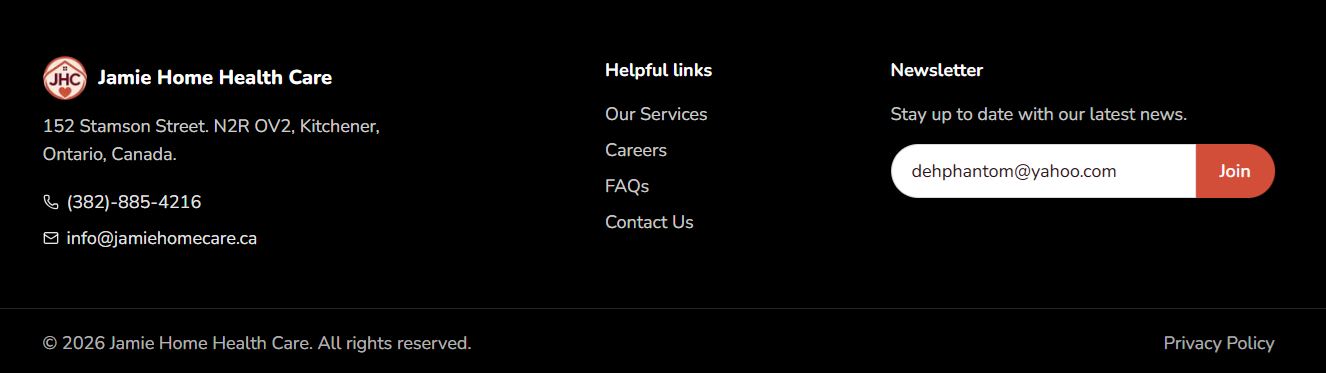
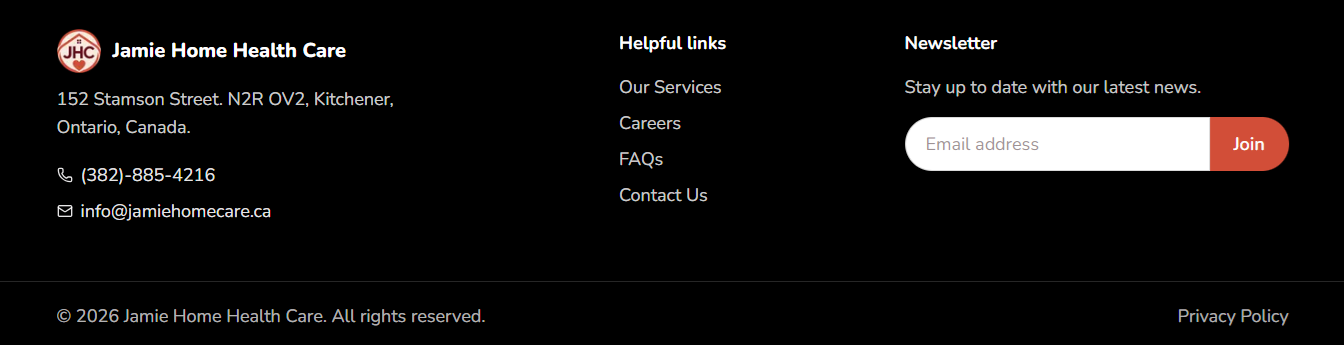
chore: update mail service

diff --git a/lib/mails/utils.ts b/lib/mails/utils.ts
@@ -7,7 +7,7 @@ const header = `
 `;
 
 const footer = `
-  <p style="margin-top:50px;">
+  <p>
     <img src="${APP.website}/images/email-footer.png" alt="" width="100%" />
   </p>
 `;
@@ -20,7 +20,7 @@ const regards = `
 `;
 
 const unsubscribe = `
-  <p style="margin-top:50px; font-size:10px; text-align:center;">
+  <p style="font-size:10px; text-align:center;">
     You are receiving this email because you subscribed to our newsletter. 
     <a href="${APP.website}">Unsubscribe</a>
   </p>

diff --git a/lib/mails/newsletter-mail.ts b/lib/mails/newsletter-mail.ts
@@ -9,7 +9,6 @@ export const newsletterMail = () => {
   return {
     subject: `Thank you for subscribing to our newsletter`,
     body: `
-      ${mailUtils.header}
       Thank you for subscribing to the ${APP.name} newsletter. 
       You are now on our list to receive practical care tips, helpful articles and updates for families caring for a loved one at home.
       <p></p>

diff --git a/lib/mails/appointment-mail.ts b/lib/mails/appointment-mail.ts
@@ -14,7 +14,6 @@ export const appointmentUserMail = (p: Params) => {
   return {
     subject: `We received your appointment request ${referenceNo}`,
     body: `
-      ${mailUtils.header}
       Hi ${p.firstName},
       <p></p>
       Thank you for contacting ${APP.name}. 

diff --git a/lib/mails/contact-us-mail.ts b/lib/mails/contact-us-mail.ts
@@ -9,7 +9,6 @@ export const contactUsMail = (p: Params) => {
   return {
     subject: `We received your message`,
     body: `
-      ${mailUtils.header}
       Hi ${p.firstName},
       <p></p>
       Thank you for contacting ${APP.name}. 

diff --git a/constants/MOCK.ts b/constants/MOCK.ts
@@ -9,7 +9,7 @@ interface MockParams {
   skip?: number | boolean;
 }
 
-const devMode = 1;
+const devMode = 0;
 
 export const MOCK = {
   newsletter: {
